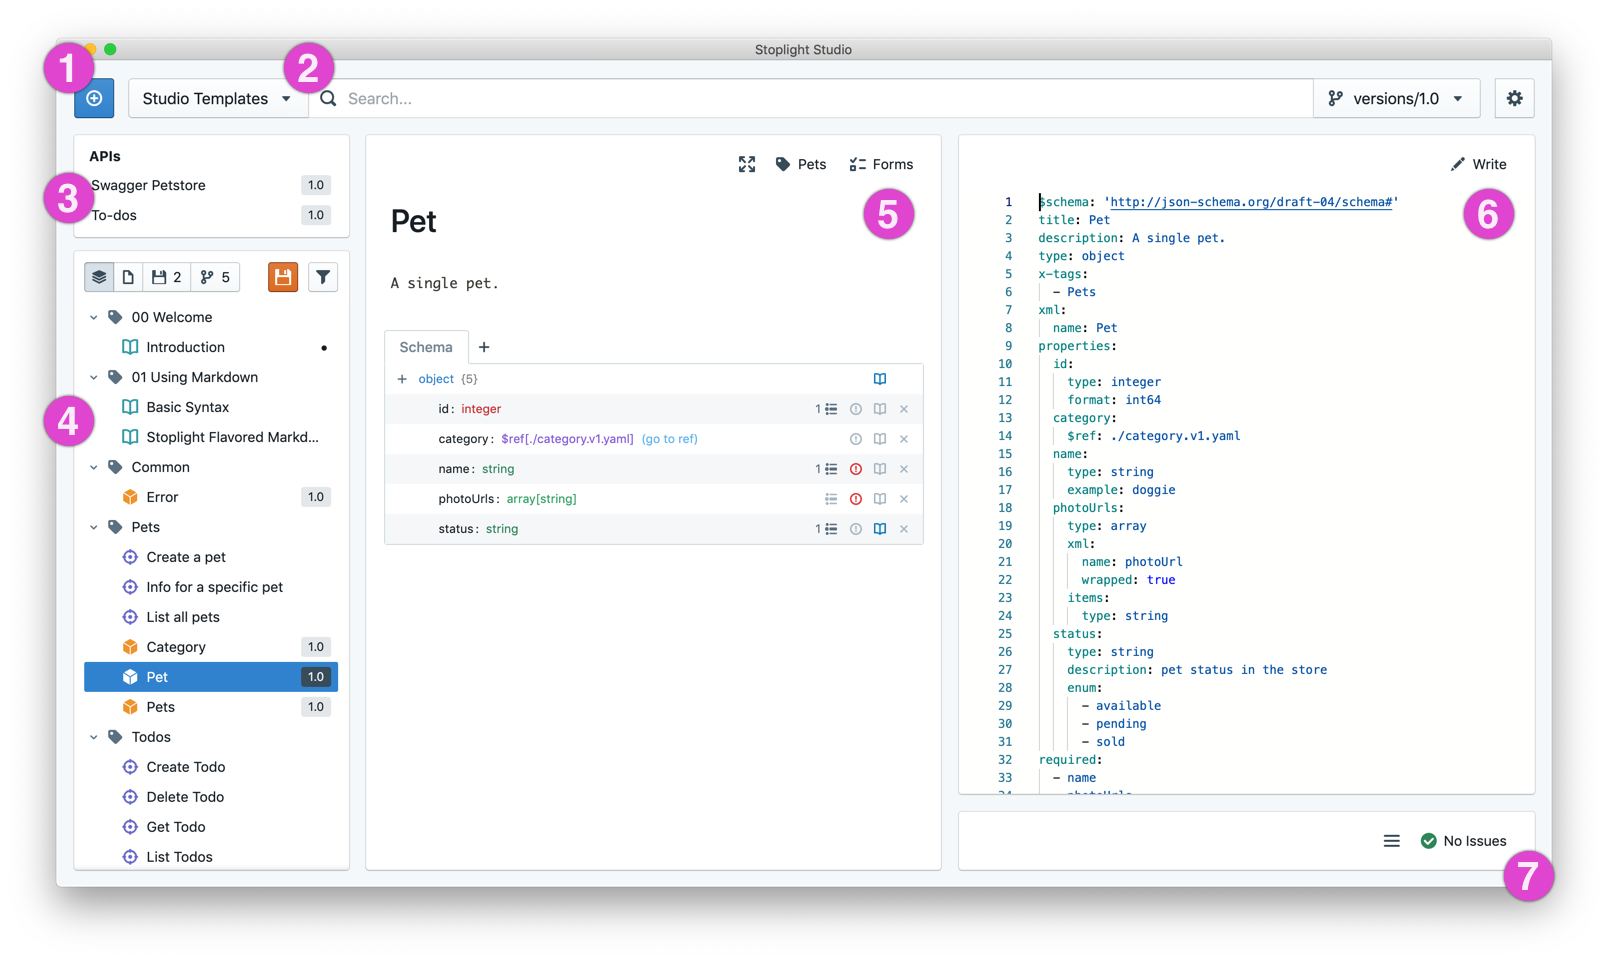
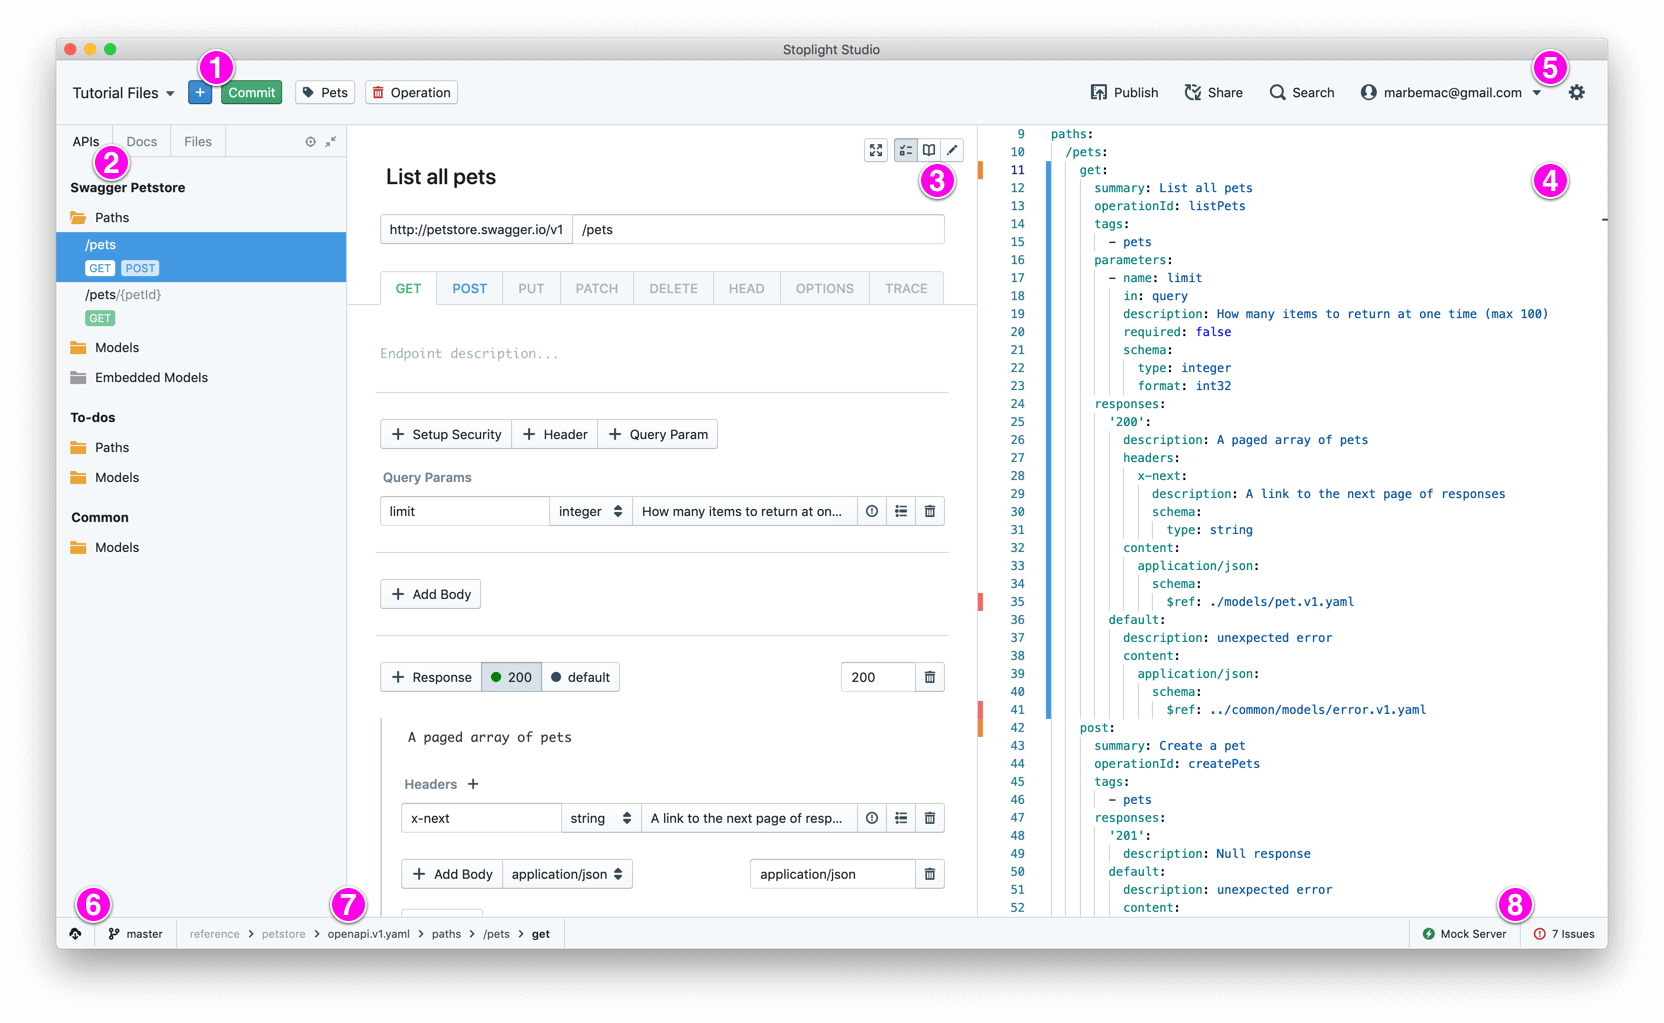
fix: update ui overview for latest

diff --git a/tutorial/docs/introduction.md b/tutorial/docs/introduction.md
@@ -8,13 +8,15 @@ Studio is our next generation app for API design, modeling, and technical writin
 
 > A primary goal of Studio is to enrich, not replace, your existing workflows. It works offline, with folders and files on your computer, just like your favorite IDEs.
 
+Read the full [Studio Docs](https://stoplight.io/p/docs/gh/stoplightio/studio).
+
 Here is some of what it can do:
 
-- **OpenAPI v2 AND v3:** Form based design mode means you don't need to be an OpenAPI expert to get started. Studio also supports OpenAPI autocomplete in write mode, a read mode to visualize HTTP operations and models, mocking, and linting for OpenAPI v2 and v3.
+- **OpenAPI v2 and v3:** Form based design mode means you don't need to be an OpenAPI expert to get started. Studio also supports OpenAPI autocomplete in write mode, a read mode to visualize HTTP operations and models, mocking, and linting for OpenAPI v2 and v3.
 - **Standalone JSON Schema Modeling:** Studio encourages you to split your models into separate files, and then makes it easy to create `$refs` between them.
-- **Stoplight Flavored Markdown:** SMD is an optional, lightweight extension to regular markdown. It enables a few advanced features such as tabs and callouts.
-- **Combine Reference and Implementation:** Since Studio works with your local filesystem, you can open up your API projects and start adding docs and designs alongside the actual implementation they are meant to describe. Once you're done, check it all into Git with your favorite Git client!
-- **Manage Mock Servers:** When Prism is enabled (via experimental features setting), Studio will automatically start a local mock server for every API defined in your project, and keep that mock server up to date as you change your designs.
+- **Stoplight Flavored Markdown:** [SMD](./markdown/stoplight-flavored-markdown.md) is an optional, lightweight extension to regular markdown. It enables a few advanced features such as tabs and callouts.
+- **Combine Reference and Implementation:** Since Studio works with your local filesystem, you can open up your API projects and start adding docs and designs alongside the actual implementation they are meant to describe. Once you're done, check it all into git with your favorite git client!
+- **Manage Mock Servers:** Studio automatically starts local mock servers for every API defined in your project, and keeps those mock servers up to date as you change your designs.
 
 <!-- theme: warning -->
 

diff --git a/tutorial/docs/ui-overview.md b/tutorial/docs/ui-overview.md
@@ -1,0 +1,17 @@
+---
+title: UI Overview
+tags: [00. Welcome]
+---
+
+# UI Overview
+
+![](../assets/images/studio-overview.png)
+
+1. **Project Actions:** Contains actions to help you add new assets to your project, such as APIs, models, articles, etc.
+2. **Project Trees:** The project sidebar tree tabs provide different views into your project. Switch between a view of API related assets, docs, and all of the files/folders in your project.
+3. **Primary Panel:** You can switch which mode is shown on the primary panel by clicking the mode selector in the top right. You can show the form editor, docs view, or code editor here. You can also click the expand button to go full screen with the panel.
+4. **Secondary Panel:** The secondary panel allows you to view two different modes side by side. In this screenshot, we've configured Studio to show the form editor in the primary panel, and the code editor in the secondary panel.
+5. **Settings & Login:** Most of Studio can be used offline & while logged out. A few features, such as git, require you to login.
+6. **Git:** If the project you are working with is connected to a Git repository, you can quickly switch branches by clicking on these buttons.
+7. **Crumbs:** These crumbs give you an at a glance look at where you are in your project.
+8. **Spectral & Prism:** Click these buttons to open the validations and mocking panels.

diff --git a/tutorial/docs/markdown/stoplight-flavored-markdown.md b/tutorial/docs/markdown/stoplight-flavored-markdown.md
@@ -1,13 +1,9 @@
----
-tags: [01. Using Markdown]
----
+# Stoplight Flavored Markdown
 
-# Stoplight Flavored Markdown (SMD)
-
-### The Two Laws
+Stoplight flavored markdown (SMD for short) was created with a couple of guiding principles in mind:
 
 1.  SMD is human readable. A human with a simple text editor can easily read and write smd.
-2.  SMD degrades gracefully. SMD documents rendered on `github.com` should be clean and readable.
+2.  SMD degrades gracefully. SMD documents rendered on `github.com` should be clean and readable. No gross templating syntax, etc.
 
 ### The Approach
 
@@ -22,25 +18,25 @@ A callout is a md block quote with an optional annotation that indicates intent.
 
 <!-- theme: danger -->
 
-> ### **Danger Will Robinson!**
+> ### Danger Will Robinson!
 >
 > Here is my danger callout!
 
 <!-- theme: warning -->
 
-> ### **Watch Out!**
+> ### Watch Out!
 >
 > Here is my warning callout!
 
 <!-- theme: success -->
 
-> ### **Mission Accomplished!**
+> ### Mission Accomplished!
 >
 > Here is my success callout!
 
 <!-- theme: info -->
 
-> ### **A thing to know**
+> ### A thing to know
 >
 > Here is my info callout
 
